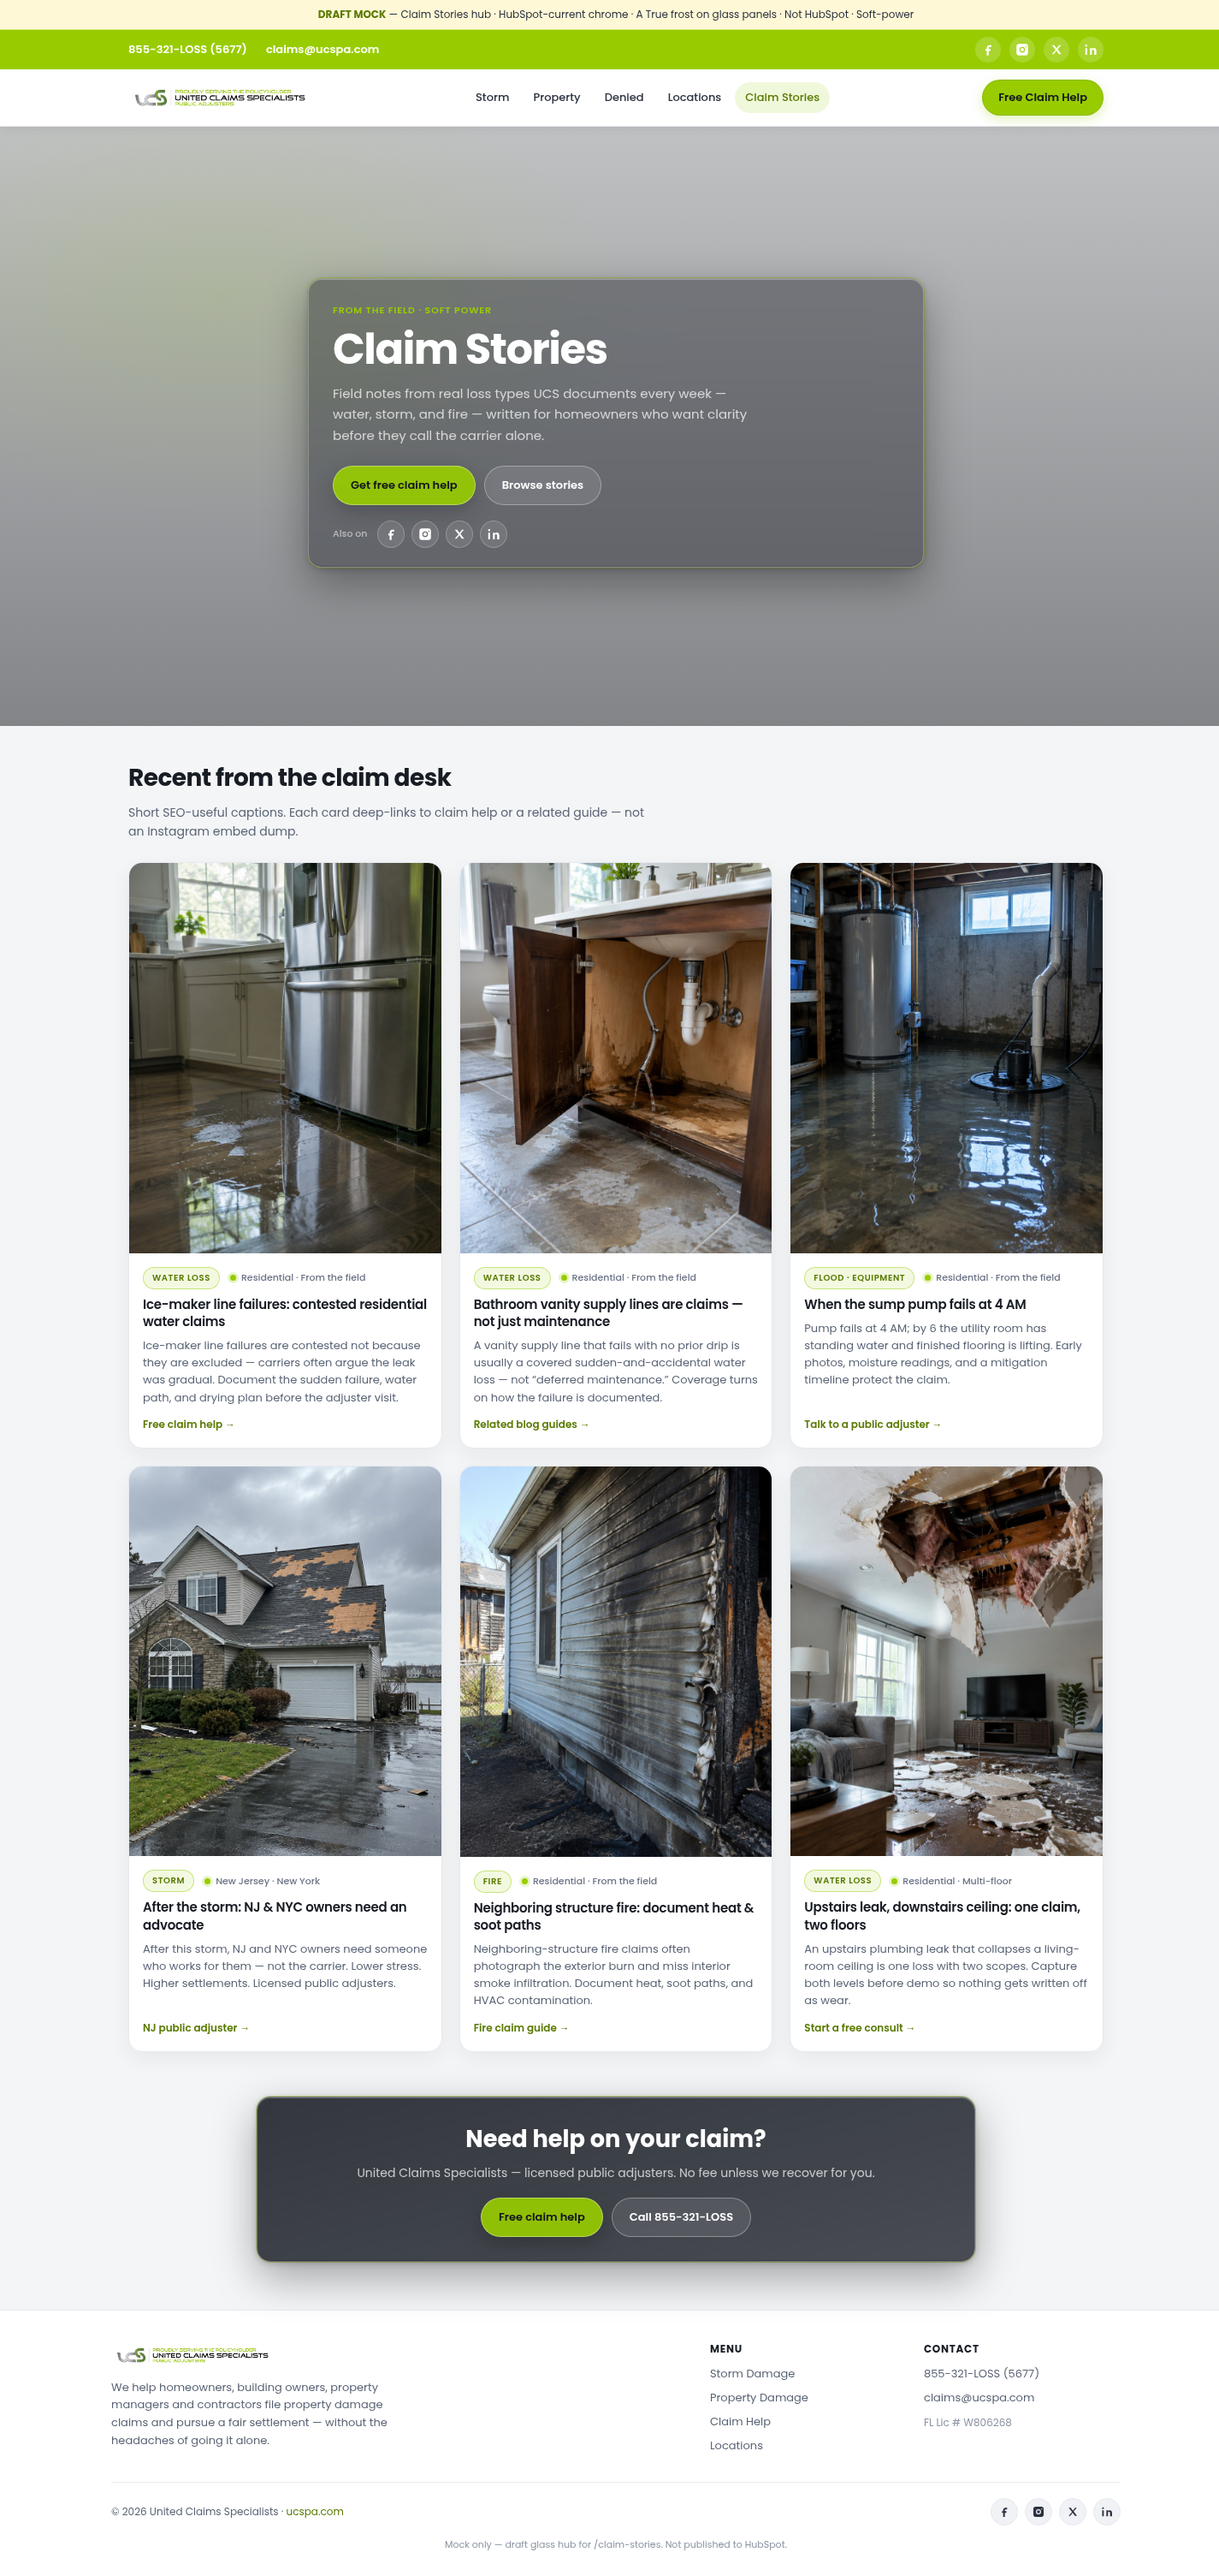
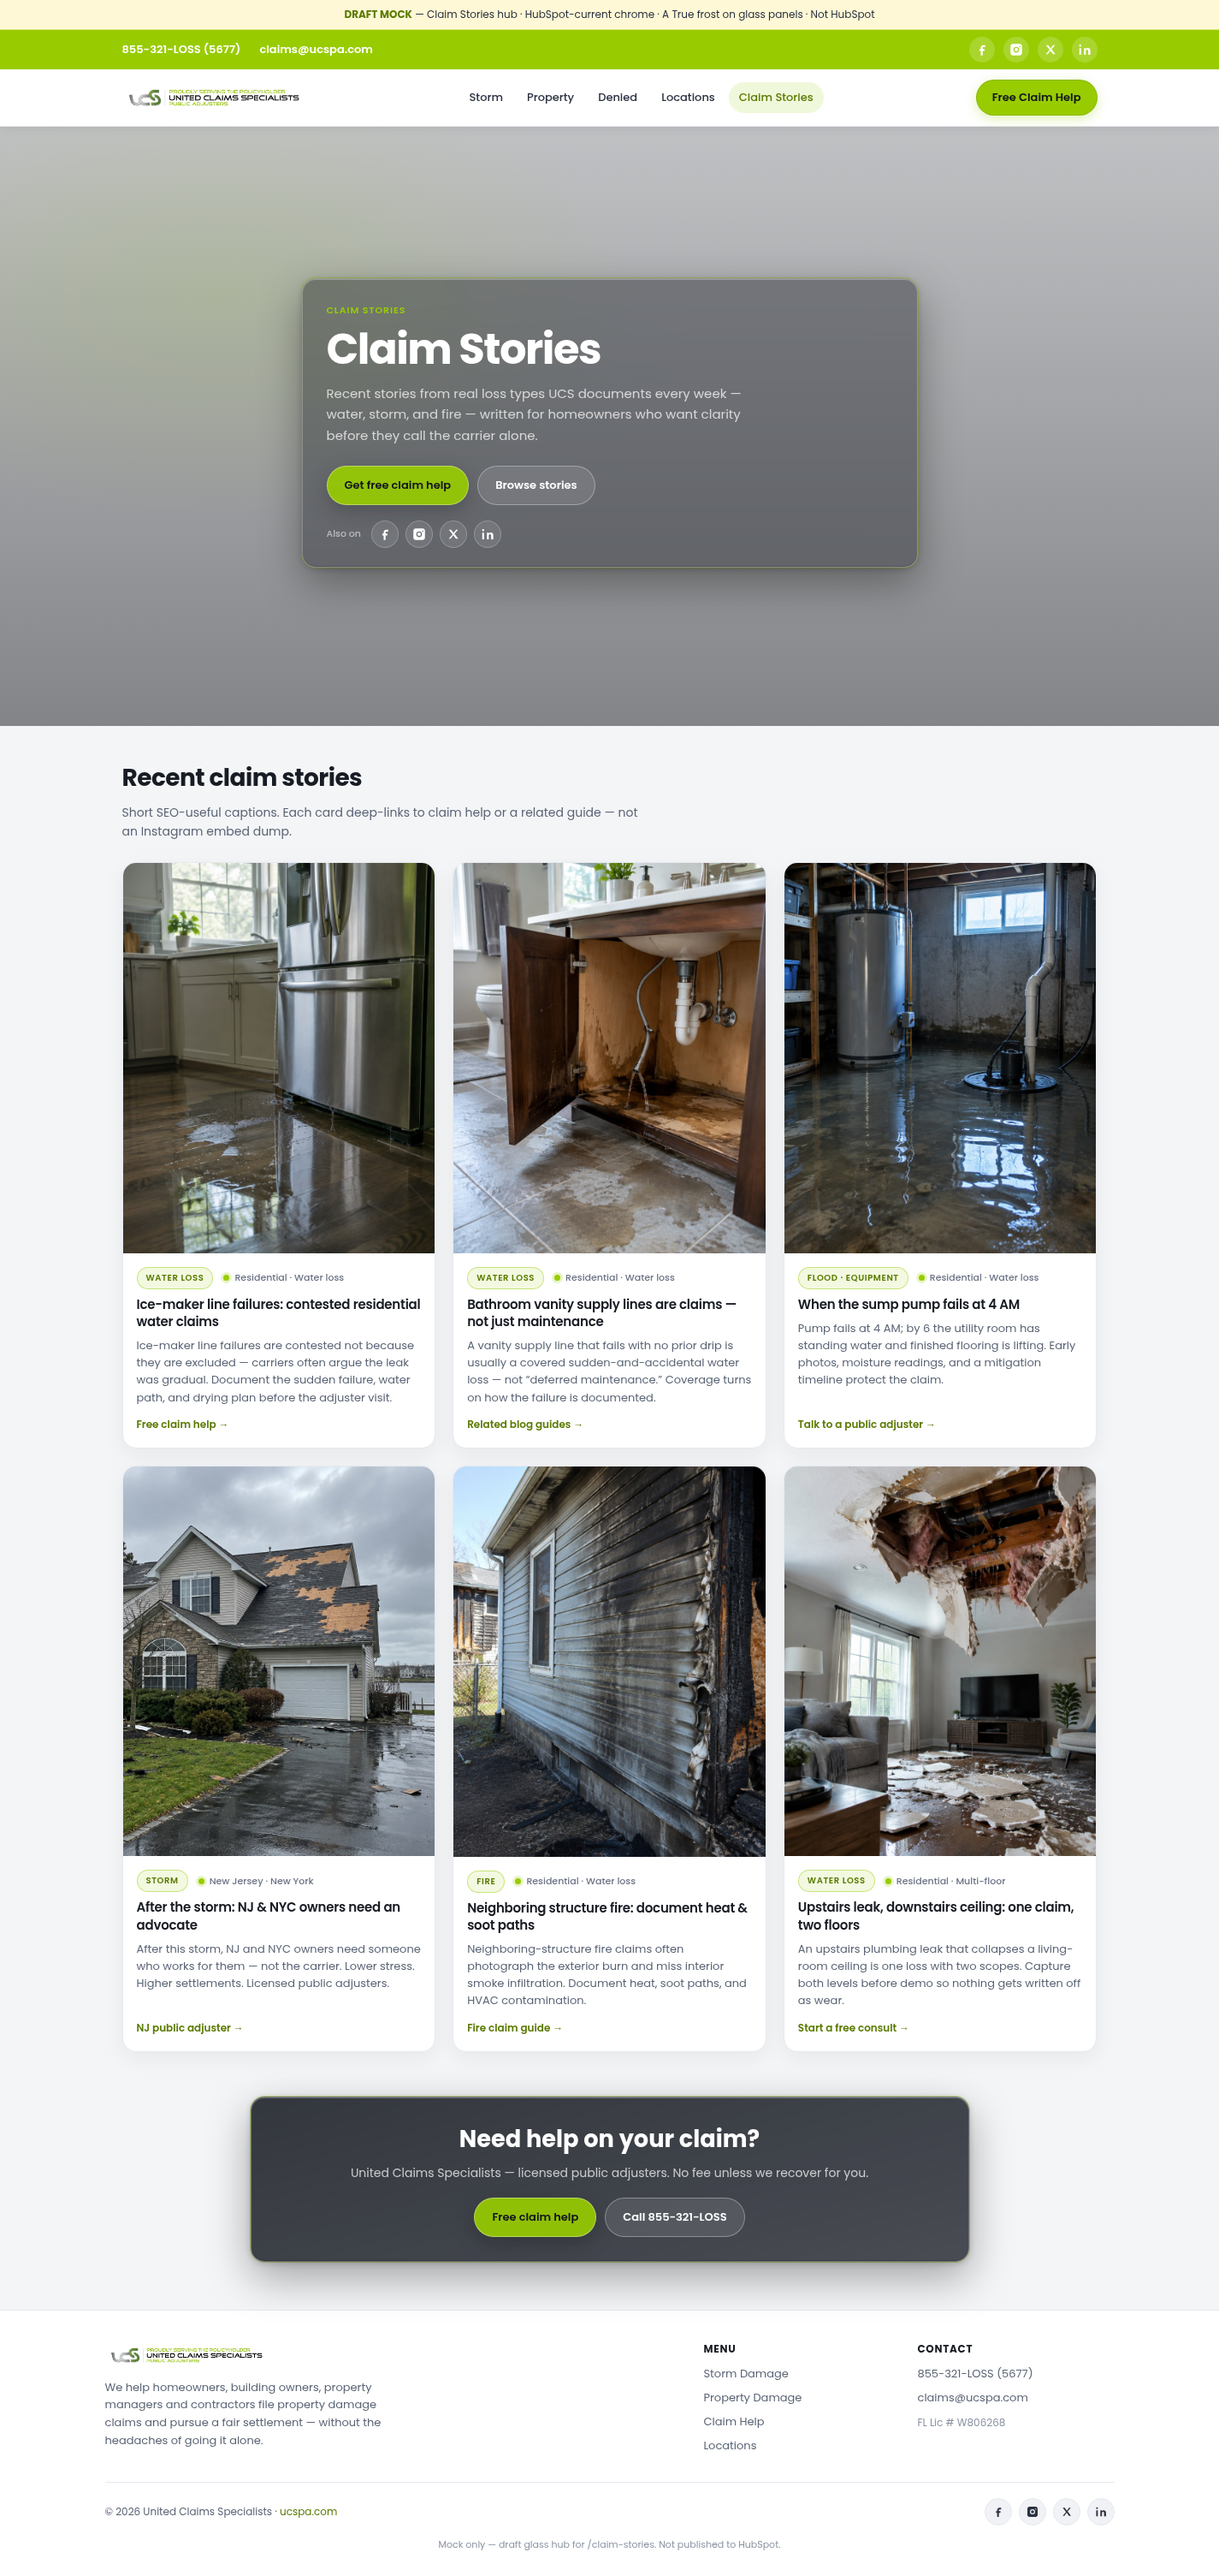
Claim Stories mock: remove internal labels

diff --git a/claim-stories-mock-20260930/index.html b/claim-stories-mock-20260930/index.html
@@ -4,7 +4,7 @@
 <meta charset="utf-8" />
 <meta name="viewport" content="width=device-width, initial-scale=1" />
 <title>Claim Stories | United Claims Specialists</title>
-<meta name="description" content="Claim Stories from the field — water losses, storm damage, and fire claims documented by United Claims Specialists. Soft-power field notes with links to free claim help." />
+<meta name="description" content="Claim Stories — water losses, storm damage, and fire claims documented by United Claims Specialists, with links to free claim help." />
 <meta name="robots" content="noindex,nofollow" />
 <link rel="preconnect" href="https://fonts.googleapis.com" />
 <link rel="preconnect" href="https://fonts.gstatic.com" crossorigin />
@@ -14,7 +14,7 @@
 </head>
 <body>
 <div class="draft-banner" role="status">
-  <strong>DRAFT MOCK</strong> — Claim Stories hub · HubSpot-current chrome · A True frost on glass panels · Not HubSpot · Soft-power
+  <strong>DRAFT MOCK</strong> — Claim Stories hub · HubSpot-current chrome · A True frost on glass panels · Not HubSpot
 </div>
 
 <header class="site-header">
@@ -62,9 +62,9 @@
     <div class="hero-bg" style="--hero-url:url('assets/img/hero-hf.jpg')"></div>
     <div class="hero-veil"></div>
     <div class="hero-panel ucs-glass-card">
-      <p class="eyebrow">From the field · Soft power</p>
+      <p class="eyebrow">Claim stories</p>
       <h1>Claim Stories</h1>
-      <p class="lede">Field notes from real loss types UCS documents every week — water, storm, and fire — written for homeowners who want clarity before they call the carrier alone.</p>
+      <p class="lede">Recent stories from real loss types UCS documents every week — water, storm, and fire — written for homeowners who want clarity before they call the carrier alone.</p>
       <div class="hero-actions">
         <a class="btn-lime" href="https://www.ucspa.com/insurance-claim-help/">Get free claim help</a>
         <a class="btn-ghost" href="#stories">Browse stories</a>
@@ -89,7 +89,7 @@
 
   <section class="stories" id="stories">
     <div class="section-head">
-      <h2>Recent from the claim desk</h2>
+      <h2>Recent claim stories</h2>
       <p>Short SEO-useful captions. Each card deep-links to claim help or a related guide — not an Instagram embed dump.</p>
     </div>
 
@@ -102,7 +102,7 @@
         <div class="story-body">
           <div class="story-meta-row">
             <span class="pill">Water loss</span>
-            <p class="story-loc"><span class="loc-dot" aria-hidden="true"></span> Residential · From the field</p>
+            <p class="story-loc"><span class="loc-dot" aria-hidden="true"></span> Residential · Water loss</p>
           </div>
           <h3><a href="https://www.ucspa.com/insurance-claim-help/">Ice-maker line failures: contested residential water claims</a></h3>
           <p>Ice-maker line failures are contested not because they are excluded — carriers often argue the leak was gradual. Document the sudden failure, water path, and drying plan before the adjuster visit.</p>
@@ -117,7 +117,7 @@
         <div class="story-body">
           <div class="story-meta-row">
             <span class="pill">Water loss</span>
-            <p class="story-loc"><span class="loc-dot" aria-hidden="true"></span> Residential · From the field</p>
+            <p class="story-loc"><span class="loc-dot" aria-hidden="true"></span> Residential · Water loss</p>
           </div>
           <h3><a href="https://www.ucspa.com/insurance-claim-help/">Bathroom vanity supply lines are claims — not just maintenance</a></h3>
           <p>A vanity supply line that fails with no prior drip is usually a covered sudden-and-accidental water loss — not “deferred maintenance.” Coverage turns on how the failure is documented.</p>
@@ -132,7 +132,7 @@
         <div class="story-body">
           <div class="story-meta-row">
             <span class="pill">Flood · Equipment</span>
-            <p class="story-loc"><span class="loc-dot" aria-hidden="true"></span> Residential · From the field</p>
+            <p class="story-loc"><span class="loc-dot" aria-hidden="true"></span> Residential · Water loss</p>
           </div>
           <h3><a href="https://www.ucspa.com/insurance-claim-help/">When the sump pump fails at 4 AM</a></h3>
           <p>Pump fails at 4 AM; by 6 the utility room has standing water and finished flooring is lifting. Early photos, moisture readings, and a mitigation timeline protect the claim.</p>
@@ -162,7 +162,7 @@
         <div class="story-body">
           <div class="story-meta-row">
             <span class="pill">Fire</span>
-            <p class="story-loc"><span class="loc-dot" aria-hidden="true"></span> Residential · From the field</p>
+            <p class="story-loc"><span class="loc-dot" aria-hidden="true"></span> Residential · Water loss</p>
           </div>
           <h3><a href="https://www.ucspa.com/fire-damage-insurance-claims/">Neighboring structure fire: document heat &amp; soot paths</a></h3>
           <p>Neighboring-structure fire claims often photograph the exterior burn and miss interior smoke infiltration. Document heat, soot paths, and HVAC contamination.</p>

diff --git a/claim-stories/index.html b/claim-stories/index.html
@@ -4,7 +4,7 @@
 <meta charset="utf-8" />
 <meta name="viewport" content="width=device-width, initial-scale=1" />
 <title>Claim Stories | United Claims Specialists</title>
-<meta name="description" content="Claim Stories from the field — water losses, storm damage, and fire claims documented by United Claims Specialists. Soft-power field notes with links to free claim help." />
+<meta name="description" content="Claim Stories — water losses, storm damage, and fire claims documented by United Claims Specialists, with links to free claim help." />
 <meta name="robots" content="noindex,nofollow" />
 <link rel="preconnect" href="https://fonts.googleapis.com" />
 <link rel="preconnect" href="https://fonts.gstatic.com" crossorigin />
@@ -14,7 +14,7 @@
 </head>
 <body>
 <div class="draft-banner" role="status">
-  <strong>DRAFT MOCK</strong> — Claim Stories hub · HubSpot-current chrome · A True frost on glass panels · Not HubSpot · Soft-power
+  <strong>DRAFT MOCK</strong> — Claim Stories hub · HubSpot-current chrome · A True frost on glass panels · Not HubSpot
 </div>
 
 <header class="site-header">
@@ -62,9 +62,9 @@
     <div class="hero-bg" style="--hero-url:url('assets/img/hero-hf.jpg')"></div>
     <div class="hero-veil"></div>
     <div class="hero-panel ucs-glass-card">
-      <p class="eyebrow">From the field · Soft power</p>
+      <p class="eyebrow">Claim stories</p>
       <h1>Claim Stories</h1>
-      <p class="lede">Field notes from real loss types UCS documents every week — water, storm, and fire — written for homeowners who want clarity before they call the carrier alone.</p>
+      <p class="lede">Recent stories from real loss types UCS documents every week — water, storm, and fire — written for homeowners who want clarity before they call the carrier alone.</p>
       <div class="hero-actions">
         <a class="btn-lime" href="https://www.ucspa.com/insurance-claim-help/">Get free claim help</a>
         <a class="btn-ghost" href="#stories">Browse stories</a>
@@ -89,7 +89,7 @@
 
   <section class="stories" id="stories">
     <div class="section-head">
-      <h2>Recent from the claim desk</h2>
+      <h2>Recent claim stories</h2>
       <p>Short SEO-useful captions. Each card deep-links to claim help or a related guide — not an Instagram embed dump.</p>
     </div>
 
@@ -102,7 +102,7 @@
         <div class="story-body">
           <div class="story-meta-row">
             <span class="pill">Water loss</span>
-            <p class="story-loc"><span class="loc-dot" aria-hidden="true"></span> Residential · From the field</p>
+            <p class="story-loc"><span class="loc-dot" aria-hidden="true"></span> Residential · Water loss</p>
           </div>
           <h3><a href="https://www.ucspa.com/insurance-claim-help/">Ice-maker line failures: contested residential water claims</a></h3>
           <p>Ice-maker line failures are contested not because they are excluded — carriers often argue the leak was gradual. Document the sudden failure, water path, and drying plan before the adjuster visit.</p>
@@ -117,7 +117,7 @@
         <div class="story-body">
           <div class="story-meta-row">
             <span class="pill">Water loss</span>
-            <p class="story-loc"><span class="loc-dot" aria-hidden="true"></span> Residential · From the field</p>
+            <p class="story-loc"><span class="loc-dot" aria-hidden="true"></span> Residential · Water loss</p>
           </div>
           <h3><a href="https://www.ucspa.com/insurance-claim-help/">Bathroom vanity supply lines are claims — not just maintenance</a></h3>
           <p>A vanity supply line that fails with no prior drip is usually a covered sudden-and-accidental water loss — not “deferred maintenance.” Coverage turns on how the failure is documented.</p>
@@ -132,7 +132,7 @@
         <div class="story-body">
           <div class="story-meta-row">
             <span class="pill">Flood · Equipment</span>
-            <p class="story-loc"><span class="loc-dot" aria-hidden="true"></span> Residential · From the field</p>
+            <p class="story-loc"><span class="loc-dot" aria-hidden="true"></span> Residential · Water loss</p>
           </div>
           <h3><a href="https://www.ucspa.com/insurance-claim-help/">When the sump pump fails at 4 AM</a></h3>
           <p>Pump fails at 4 AM; by 6 the utility room has standing water and finished flooring is lifting. Early photos, moisture readings, and a mitigation timeline protect the claim.</p>
@@ -162,7 +162,7 @@
         <div class="story-body">
           <div class="story-meta-row">
             <span class="pill">Fire</span>
-            <p class="story-loc"><span class="loc-dot" aria-hidden="true"></span> Residential · From the field</p>
+            <p class="story-loc"><span class="loc-dot" aria-hidden="true"></span> Residential · Water loss</p>
           </div>
           <h3><a href="https://www.ucspa.com/fire-damage-insurance-claims/">Neighboring structure fire: document heat &amp; soot paths</a></h3>
           <p>Neighboring-structure fire claims often photograph the exterior burn and miss interior smoke infiltration. Document heat, soot paths, and HVAC contamination.</p>

diff --git a/claim-stories-mock-20260930/STATUS.md b/claim-stories-mock-20260930/STATUS.md
@@ -1,12 +1,12 @@
-# Claim Stories mock — STATUS 2026-09-30 ~09:15 EDT
+# Claim Stories mock — STATUS 2026-09-30 ~09:25 EDT
 
 ## Locked (Joe 2026-09-30 feedback)
 - H1/title: **Claim Stories** (not Claim Social)
 - Chrome: **HubSpot-current** (lime top bar + white header/footer + UCS logo) — NOT dark redesign aesthetic
 - Glass: **A True frost** on hero + CTA panels only
-- Location attribution on cards: kept (e.g. NJ · NY / Residential · From the field)
+- Location and peril attribution on cards: kept (e.g. NJ · NY / Residential · Water loss)
 - Social: **icon links only** (FB UCSPA19, IG @ucs.pa, X @UCS_PA, LinkedIn) — no spelled-out handles
-- Soft-power hub; **no HubSpot publish**; no Joe message from this pass
+- Messaging substance retained; internal strategy labels removed from visitor copy; **no HubSpot publish**; no Joe message from this pass
 
 ## Paths
 - Local box: `/workspace/ucs-seo/claim-stories-mock-20260930/`

diff --git a/claim-stories/STATUS.md b/claim-stories/STATUS.md
@@ -1,12 +1,12 @@
-# Claim Stories mock — STATUS 2026-09-30 ~09:15 EDT
+# Claim Stories mock — STATUS 2026-09-30 ~09:25 EDT
 
 ## Locked (Joe 2026-09-30 feedback)
 - H1/title: **Claim Stories** (not Claim Social)
 - Chrome: **HubSpot-current** (lime top bar + white header/footer + UCS logo) — NOT dark redesign aesthetic
 - Glass: **A True frost** on hero + CTA panels only
-- Location attribution on cards: kept (e.g. NJ · NY / Residential · From the field)
+- Location and peril attribution on cards: kept (e.g. NJ · NY / Residential · Water loss)
 - Social: **icon links only** (FB UCSPA19, IG @ucs.pa, X @UCS_PA, LinkedIn) — no spelled-out handles
-- Soft-power hub; **no HubSpot publish**; no Joe message from this pass
+- Messaging substance retained; internal strategy labels removed from visitor copy; **no HubSpot publish**; no Joe message from this pass
 
 ## Paths
 - Local box: `/workspace/ucs-seo/claim-stories-mock-20260930/`

diff --git a/claim-stories-mock-20260930/README.md b/claim-stories-mock-20260930/README.md
@@ -1,6 +1,6 @@
 # Claim Stories mock — 2026-09-30
 
-**Status:** Draft mock only. Not HubSpot. Soft-power hub for `/claim-stories`.
+**Status:** Draft mock only. Not HubSpot. Claim Stories hub for `/claim-stories`.
 
 ## Title lock
 - H1 / theme: **Claim Stories** (Joe locked; not Claim Social)
@@ -20,7 +20,7 @@ Canonical cross-posts from Zernio / X `@UCS_PA` (also FB UCSPA19, IG @ucs.pa, Li
 3. 4 AM sump / pump utility flood
 4. NJ & NYC post-storm advocate
 5. Neighboring structure fire / soot
-6. Upstairs leak → ceiling collapse (field-style sample)
+6. Upstairs leak → ceiling collapse (water-loss sample)
 
 ## Preview
 ```bash

diff --git a/claim-stories/README.md b/claim-stories/README.md
@@ -1,6 +1,6 @@
 # Claim Stories mock — 2026-09-30
 
-**Status:** Draft mock only. Not HubSpot. Soft-power hub for `/claim-stories`.
+**Status:** Draft mock only. Not HubSpot. Claim Stories hub for `/claim-stories`.
 
 ## Title lock
 - H1 / theme: **Claim Stories** (Joe locked; not Claim Social)
@@ -20,7 +20,7 @@ Canonical cross-posts from Zernio / X `@UCS_PA` (also FB UCSPA19, IG @ucs.pa, Li
 3. 4 AM sump / pump utility flood
 4. NJ & NYC post-storm advocate
 5. Neighboring structure fire / soot
-6. Upstairs leak → ceiling collapse (field-style sample)
+6. Upstairs leak → ceiling collapse (water-loss sample)
 
 ## Preview
 ```bash
